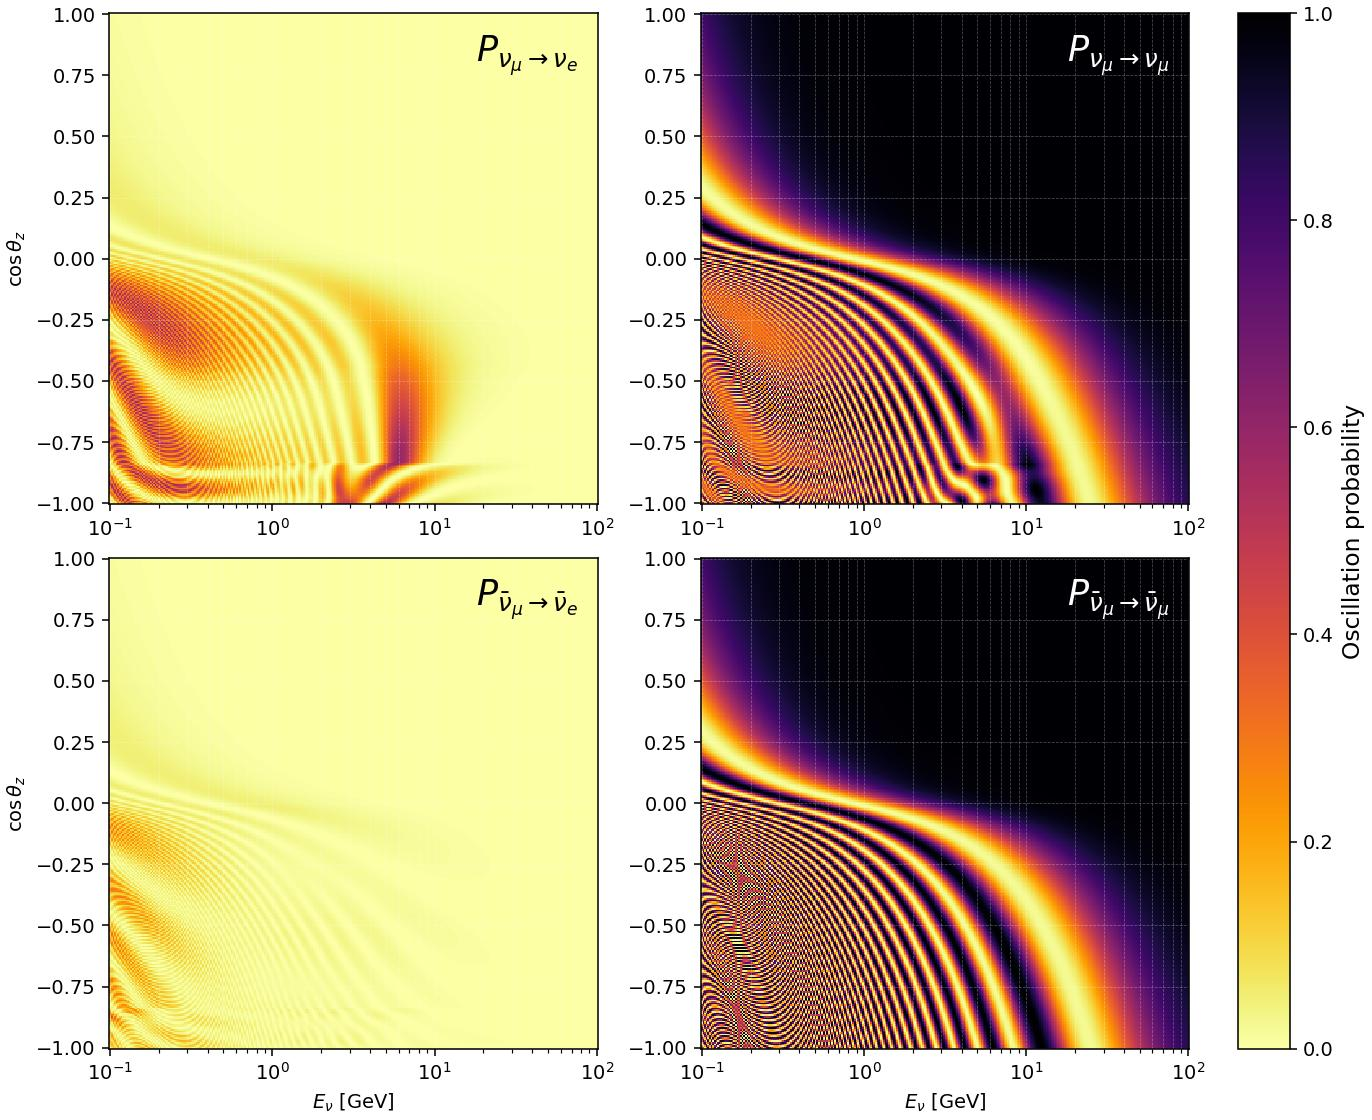
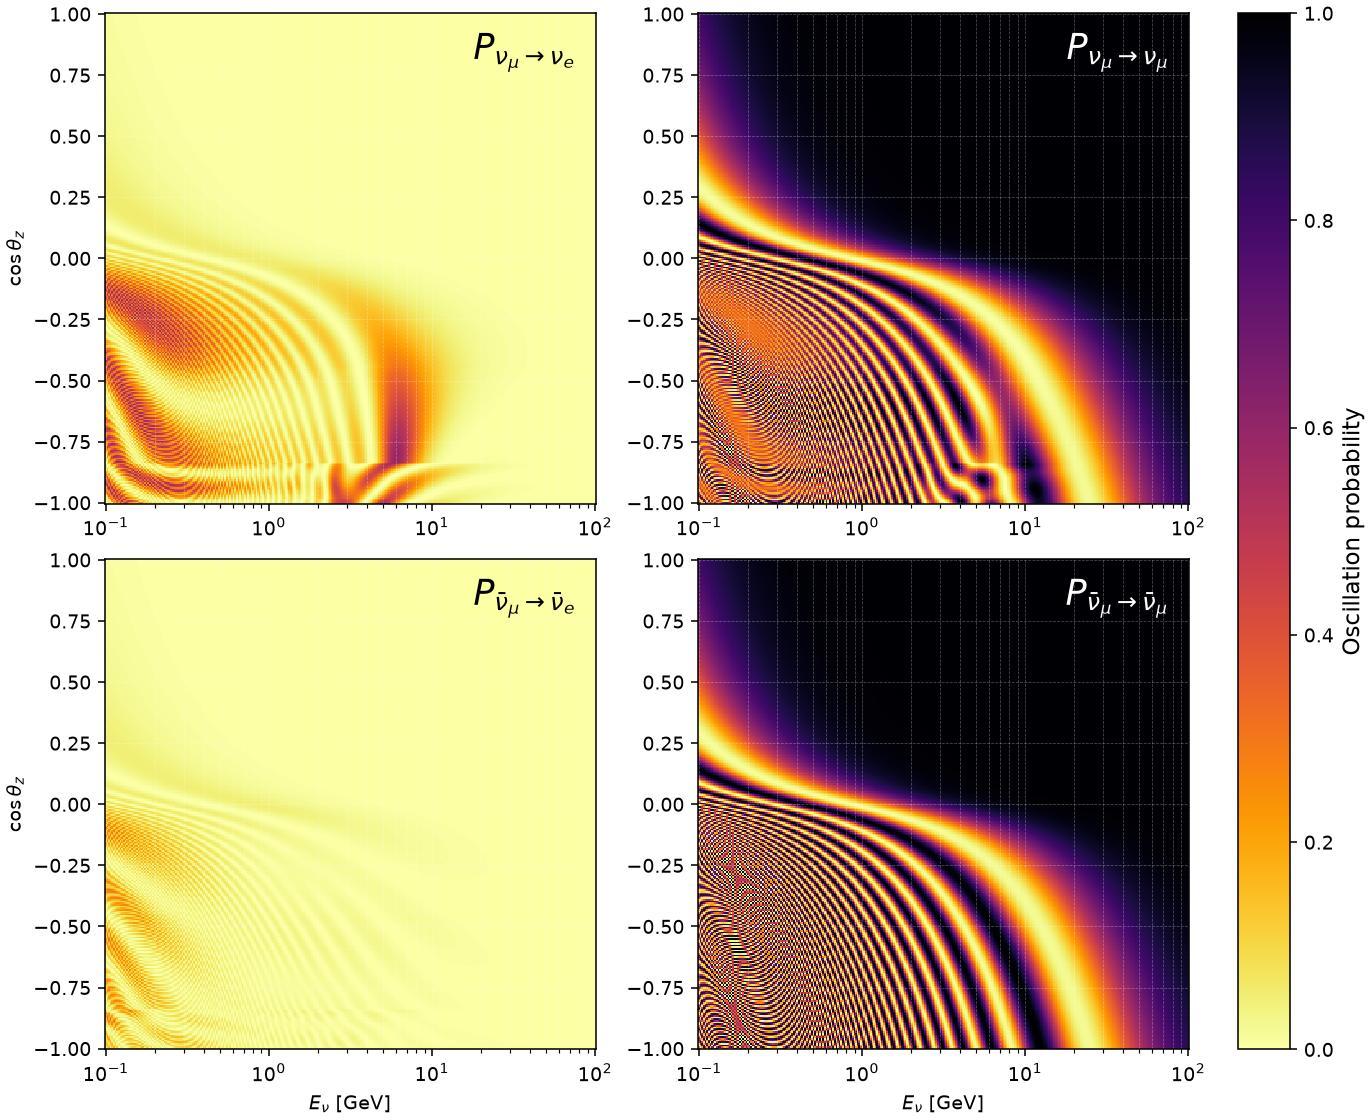
Extend AD-vs-FD grid to the nadir; enlarge figure fonts; lossless Fig 1
- bench_backends_and_precision.py: the AD-vs-FD grid ran -0.999..-0.2,
  excluding cos(zenith) = -1 exactly. That bound was chosen to keep central
  differences inside the domain -- but -1 is the nadir, where the gradient used
  to be silently halved by a clip tie, so excluding it was precisely wrong. The
  grid now includes it, with a second-order one-sided difference at that point.
  Verified the resulting larger deviation is FD truncation, not AD error: the
  one-sided estimate converges onto the AD value as 4e-3, 2e-5, 2e-7, 3e-8 for
  h = 1e-4..1e-7.

- demo_tomography_fisher.py: the figure is placed at \textwidth (~6.3 in) from a
  16.5 in canvas, a 0.38x scale-down that put axis labels under 4 pt on paper.
  Fonts scaled so they land at ~9-10 pt printed.

- examples/nuwaves/matter_prem.py: also emit a lossless 400 dpi PNG. The
  shipped JPEG put compression ringing into the near-horizon fringes, i.e. into
  the structure the figure exists to show. (A vector PDF was tried first but
  pcolormesh emits one path per cell, giving a 3.5 MB file that older pdfTeX
  refuses to embed.)

Suite: 94/94.

diff --git a/benchmarks/bench_backends_and_precision.py b/benchmarks/bench_backends_and_precision.py
@@ -139,7 +139,13 @@ elif MODE == "grad":
     # CPU node.
     NE = 24
     Ee = jnp.linspace(1.0, 20.0, NE)
-    cze = jnp.linspace(-0.999, -0.2, NE)   # keep cz+-h inside [-1,1] for the FD check
+    # Include the nadir endpoint cz = -1 exactly.  That point is where the
+    # geometry gradient used to be silently halved by a clip tie, so excluding
+    # it from the AD-vs-FD table (as an earlier version of this script did, to
+    # keep cz +- h inside [-1, 1]) is exactly the wrong choice: it is the point
+    # most worth checking.  Central differences cannot step past -1, so the cz
+    # row uses a one-sided difference taken from the physical side there.
+    cze = jnp.concatenate([jnp.array([-1.0]), jnp.linspace(-0.999, -0.2, NE - 1)])
     table = _osc._earth.shell_table(4)
 
     def prob_full(p, cz_, h_km, sc_core, sc_mantle, e_gev):
@@ -182,8 +188,16 @@ elif MODE == "grad":
             c if x0 is None else x0, e, c)))
         ad = np.asarray(gfun(Ee, cze))
 
-        def fd_one(e, c, f=f, x0=x0, h=h):
+        def fd_one(e, c, f=f, x0=x0, h=h, kind=kind):
             x = c if x0 is None else x0
+            if kind == "cz":
+                # one-sided from the physical side wherever cz - h would leave
+                # [-1, 1]; second-order accurate three-point forward formula.
+                inside = x - h >= -1.0
+                central = (f(x + h, e, c) - f(x - h, e, c)) / (2 * h)
+                forward = (-3 * f(x, e, c) + 4 * f(x + h, e, c)
+                           - f(x + 2 * h, e, c)) / (2 * h)
+                return jnp.where(inside, central, forward)
             return (f(x + h, e, c) - f(x - h, e, c)) / (2 * h)
         fd = np.asarray(jax.jit(jax.vmap(fd_one))(Ee, cze))
         num = np.abs(ad - fd).max()

diff --git a/benchmarks/demo_tomography_fisher.py b/benchmarks/demo_tomography_fisher.py
@@ -237,6 +237,16 @@ def _figure(Jn, mun, per_bin, frac_info, s0, dsdr, frac_bins_pct):
     matplotlib.use("Agg")
     import matplotlib.pyplot as plt
 
+    # The figure is placed at \textwidth (~6.3 in) in a single-column journal
+    # layout, so a 16.5 in canvas is scaled down by ~0.38.  Default 10 pt labels
+    # would print at under 4 pt.  Scale the fonts up so they land at ~9-10 pt on
+    # paper, and keep the canvas modest so the scale factor is small.
+    plt.rcParams.update({
+        "font.size": 17, "axes.titlesize": 19, "axes.labelsize": 17,
+        "xtick.labelsize": 15, "ytick.labelsize": 15, "legend.fontsize": 14,
+        "axes.linewidth": 1.2, "lines.linewidth": 2.0,
+    })
+
     E = np.asarray(E_C).reshape(N_E, N_CZ)
     CZ = np.asarray(CZ_C).reshape(N_E, N_CZ)
     dmu = Jn[:, 0].reshape(N_E, N_CZ)

diff --git a/examples/nuwaves/matter_prem.py b/examples/nuwaves/matter_prem.py
@@ -52,4 +52,10 @@ cbar = fig.colorbar(axs.flat[0].collections[0], ax=axs, location="right",
                     fraction=0.05, pad=0.03)
 cbar.set_label("Oscillation probability", fontsize=12)
 plt.savefig(FIGDIR / "matter_prem_test.jpg", dpi=140)
+# also emit a lossless high-resolution copy: the JPEG is fine on screen but
+# its compression puts ringing artefacts into the fine near-horizon fringes,
+# which is exactly the structure the figure exists to show.  (A vector PDF is
+# possible too but pcolormesh emits one path per cell, giving a multi-MB file
+# that older pdfTeX cannot embed; 400 dpi lossless is the practical choice.)
+plt.savefig(FIGDIR / "matter_prem_test.png", dpi=400)
 print("saved", FIGDIR / "matter_prem_test.jpg")
